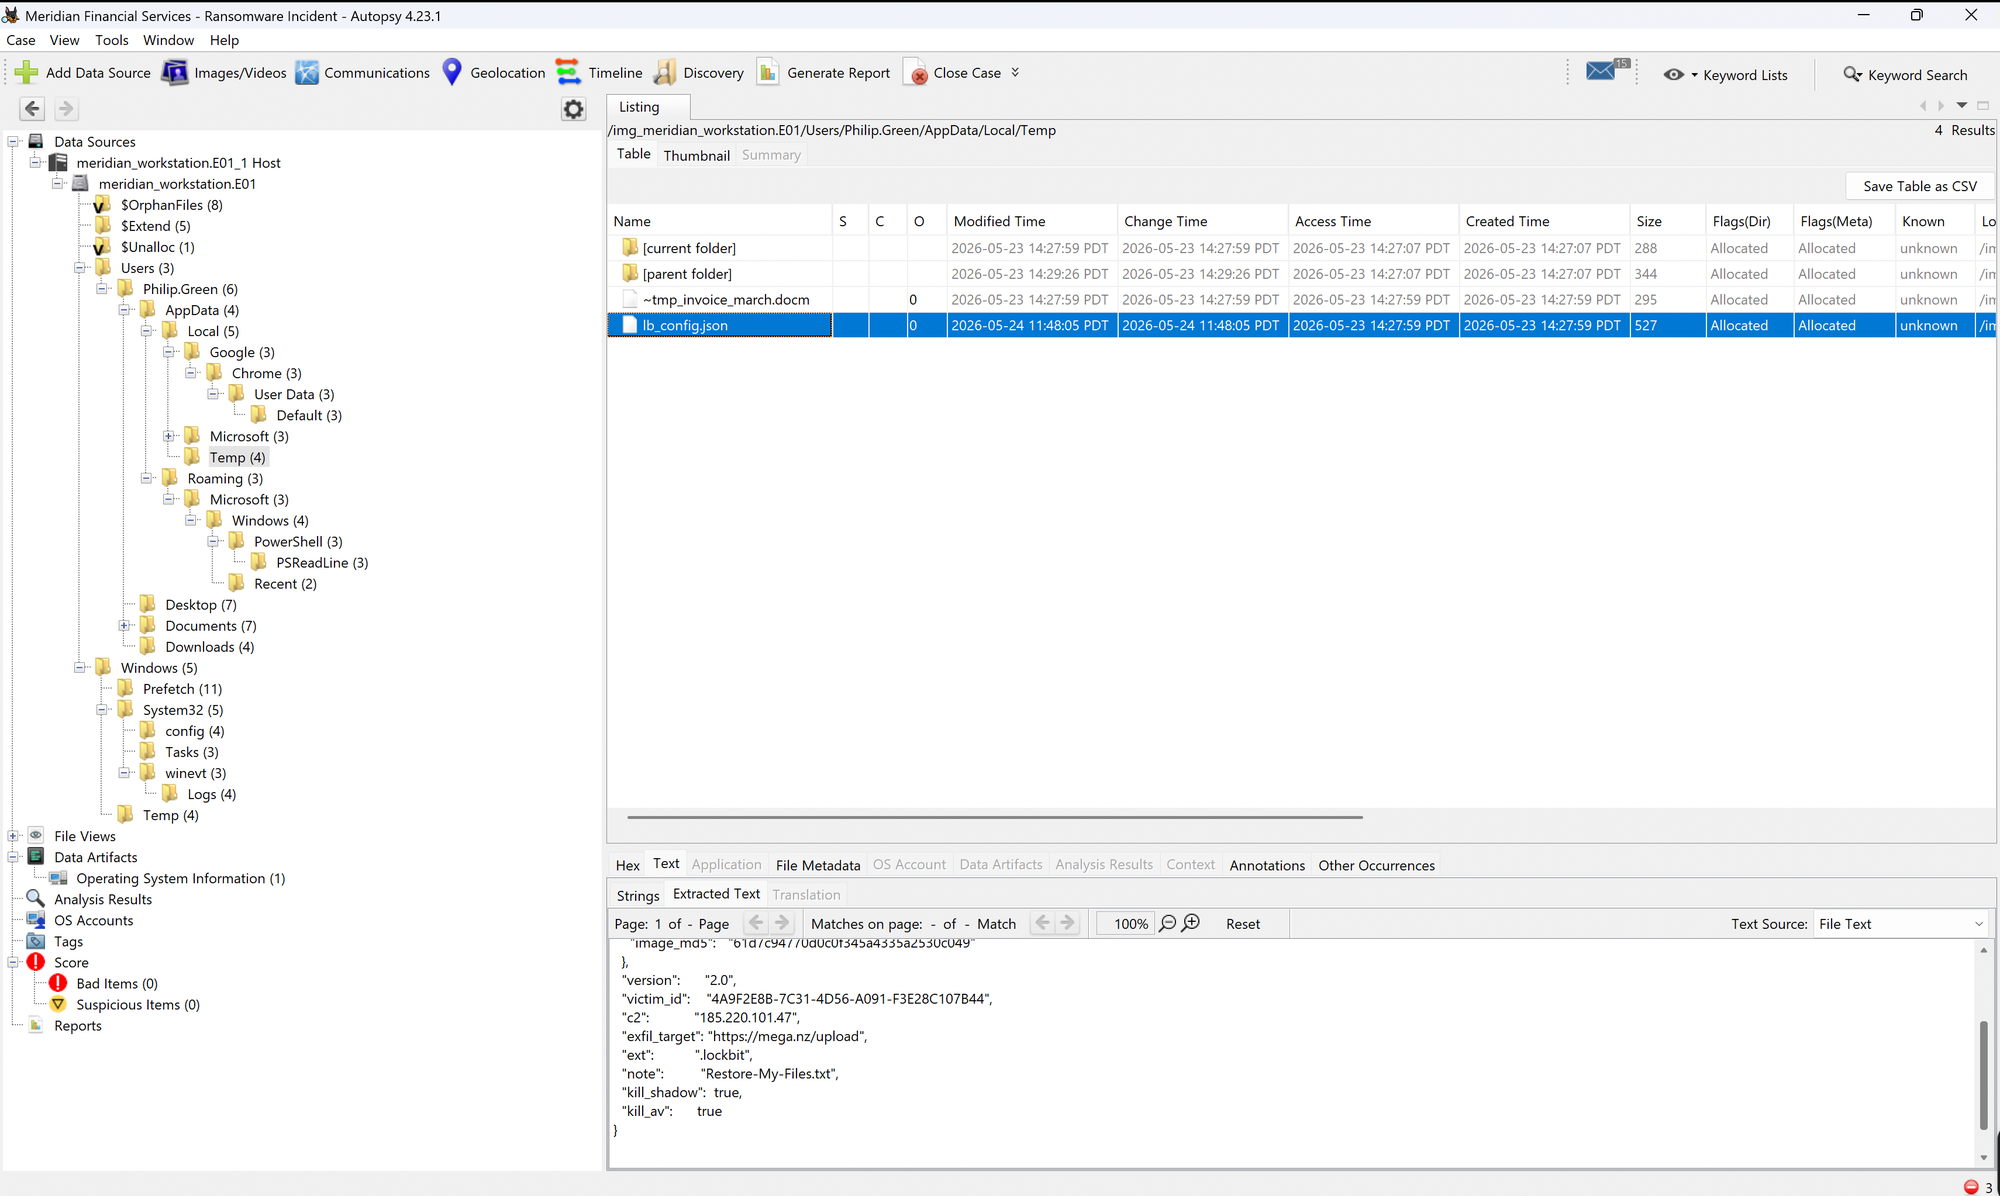
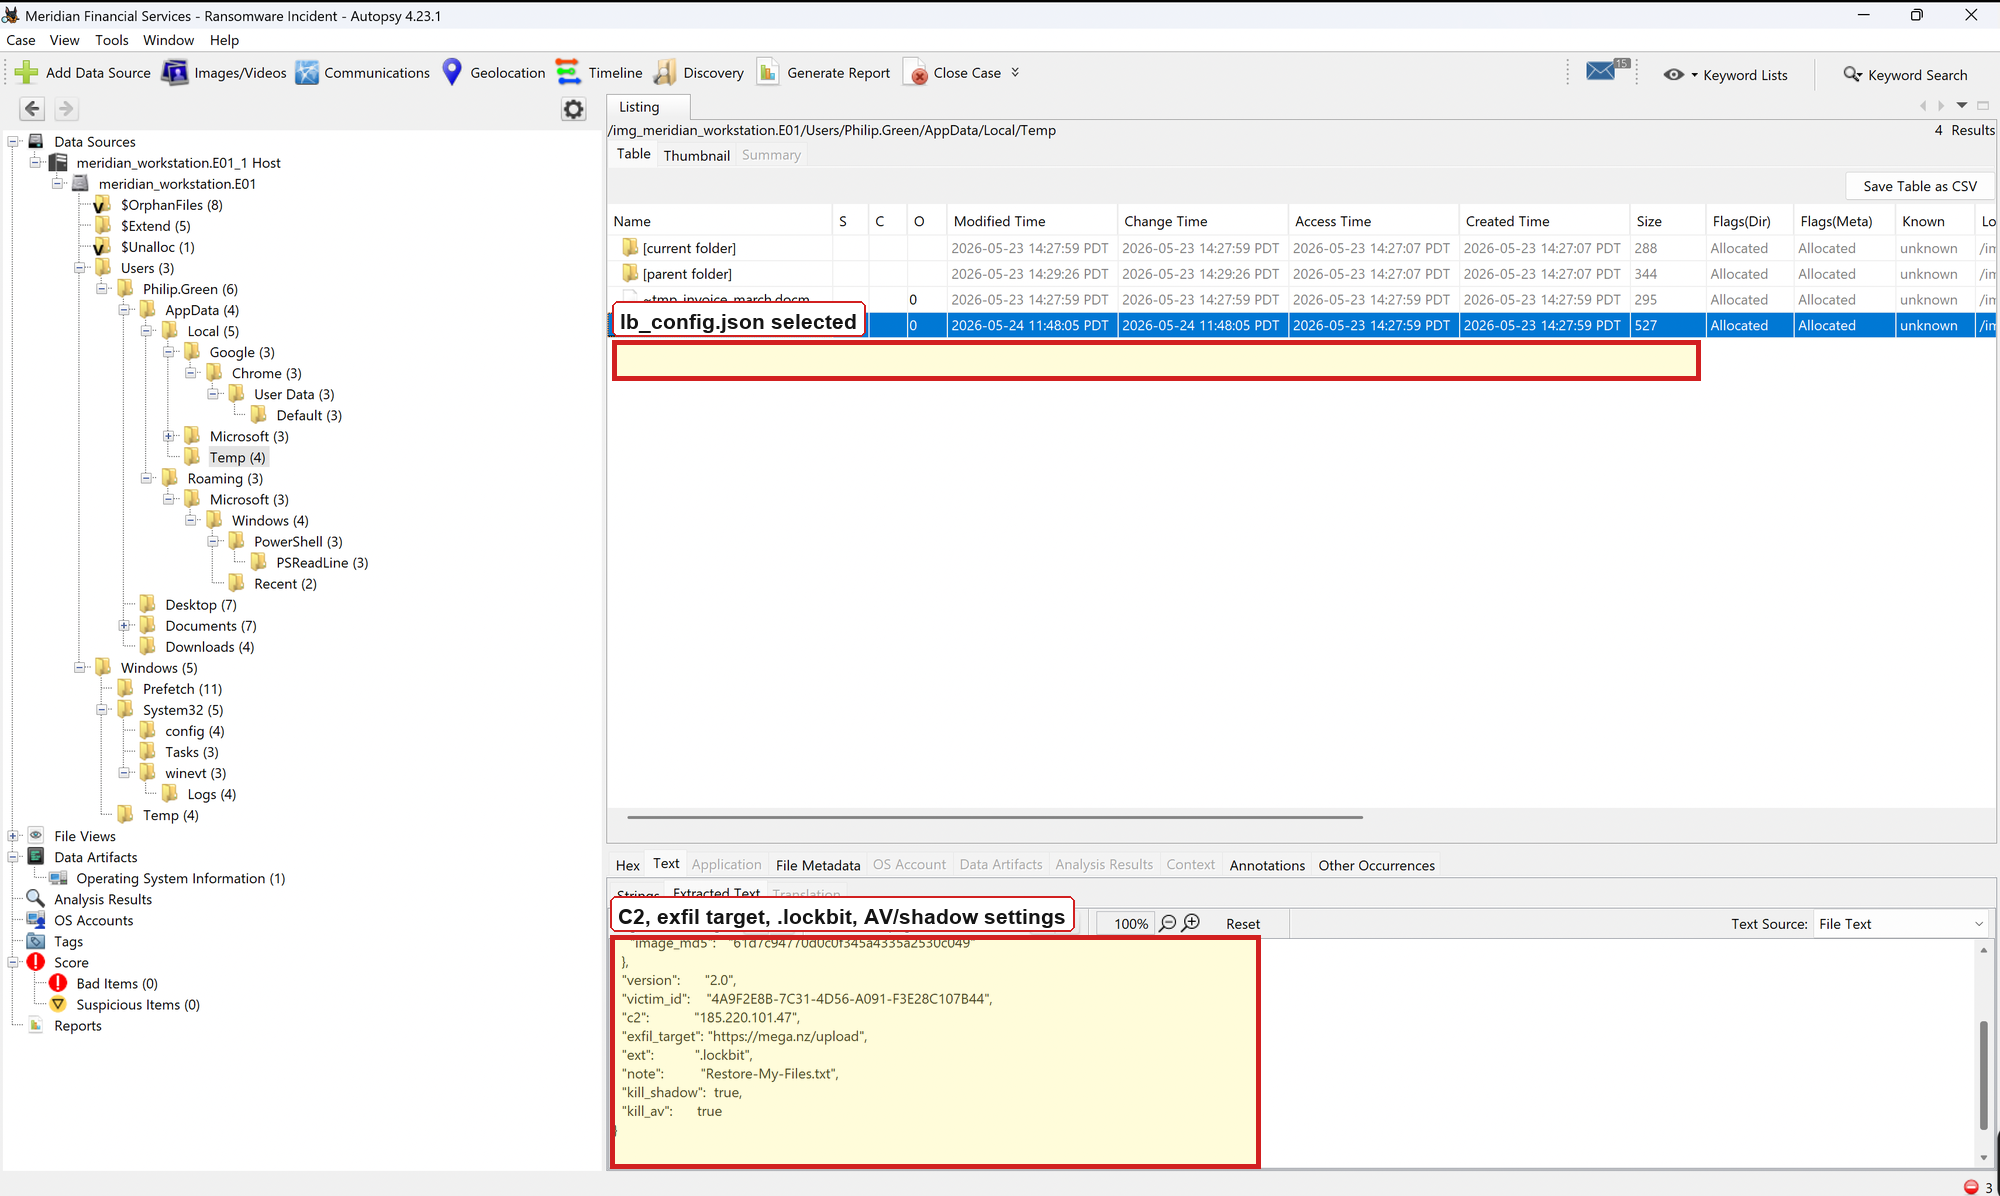
Annotate DFIR portfolio screenshots

Changed region(s): [[0.279, 0.7425, 0.651, 0.99], [0.279, 0.2475, 0.868, 0.3403]]

diff --git a/portfolio-investigations/01-meridian-ransomware-incident/screenshots/README.md b/portfolio-investigations/01-meridian-ransomware-incident/screenshots/README.md
@@ -1,6 +1,6 @@
 # Screenshot Index
 
-These screenshots are cropped analysis views used to support the report findings.
+These screenshots are cropped and annotated analysis views used to support the report findings.
 
 | File | What It Shows |
 | --- | --- |
@@ -11,4 +11,3 @@ These screenshots are cropped analysis views used to support the report findings
 | [05-wireshark-dns-docm-download.png](05-wireshark-dns-docm-download.png) | DNS resolution for `meridian-invoices.com` and HTTP retrieval of `Invoice_March2024.docm` |
 | [06-wireshark-c2-and-smb.png](06-wireshark-c2-and-smb.png) | C2 traffic and SMB activity involving internal host `192.168.1.88` |
 | [07-wireshark-exfil-lockbit-dns.png](07-wireshark-exfil-lockbit-dns.png) | Mega-related traffic and LockBit onion DNS lookup |
-

diff --git a/portfolio-investigations/02-hackforge-unusual-process-memory/screenshots/README.md b/portfolio-investigations/02-hackforge-unusual-process-memory/screenshots/README.md
@@ -1,6 +1,6 @@
 # Screenshot Index
 
-These screenshots are cropped Volatility output views used to support the report findings.
+These screenshots are cropped and annotated Volatility output views used to support the report findings.
 
 | File | What It Shows |
 | --- | --- |
